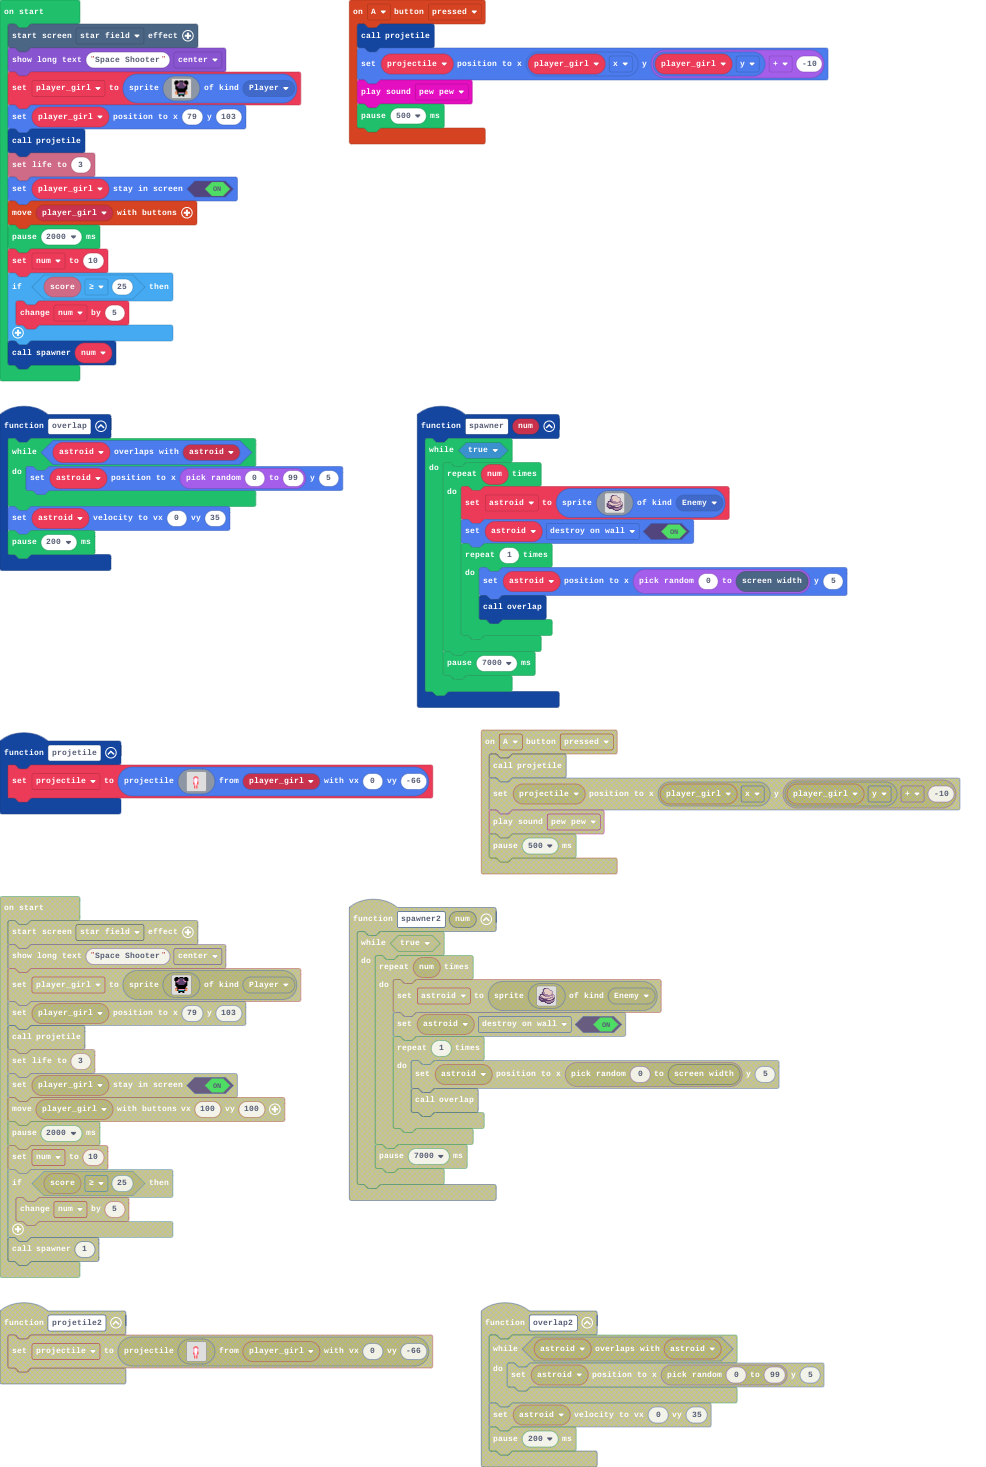
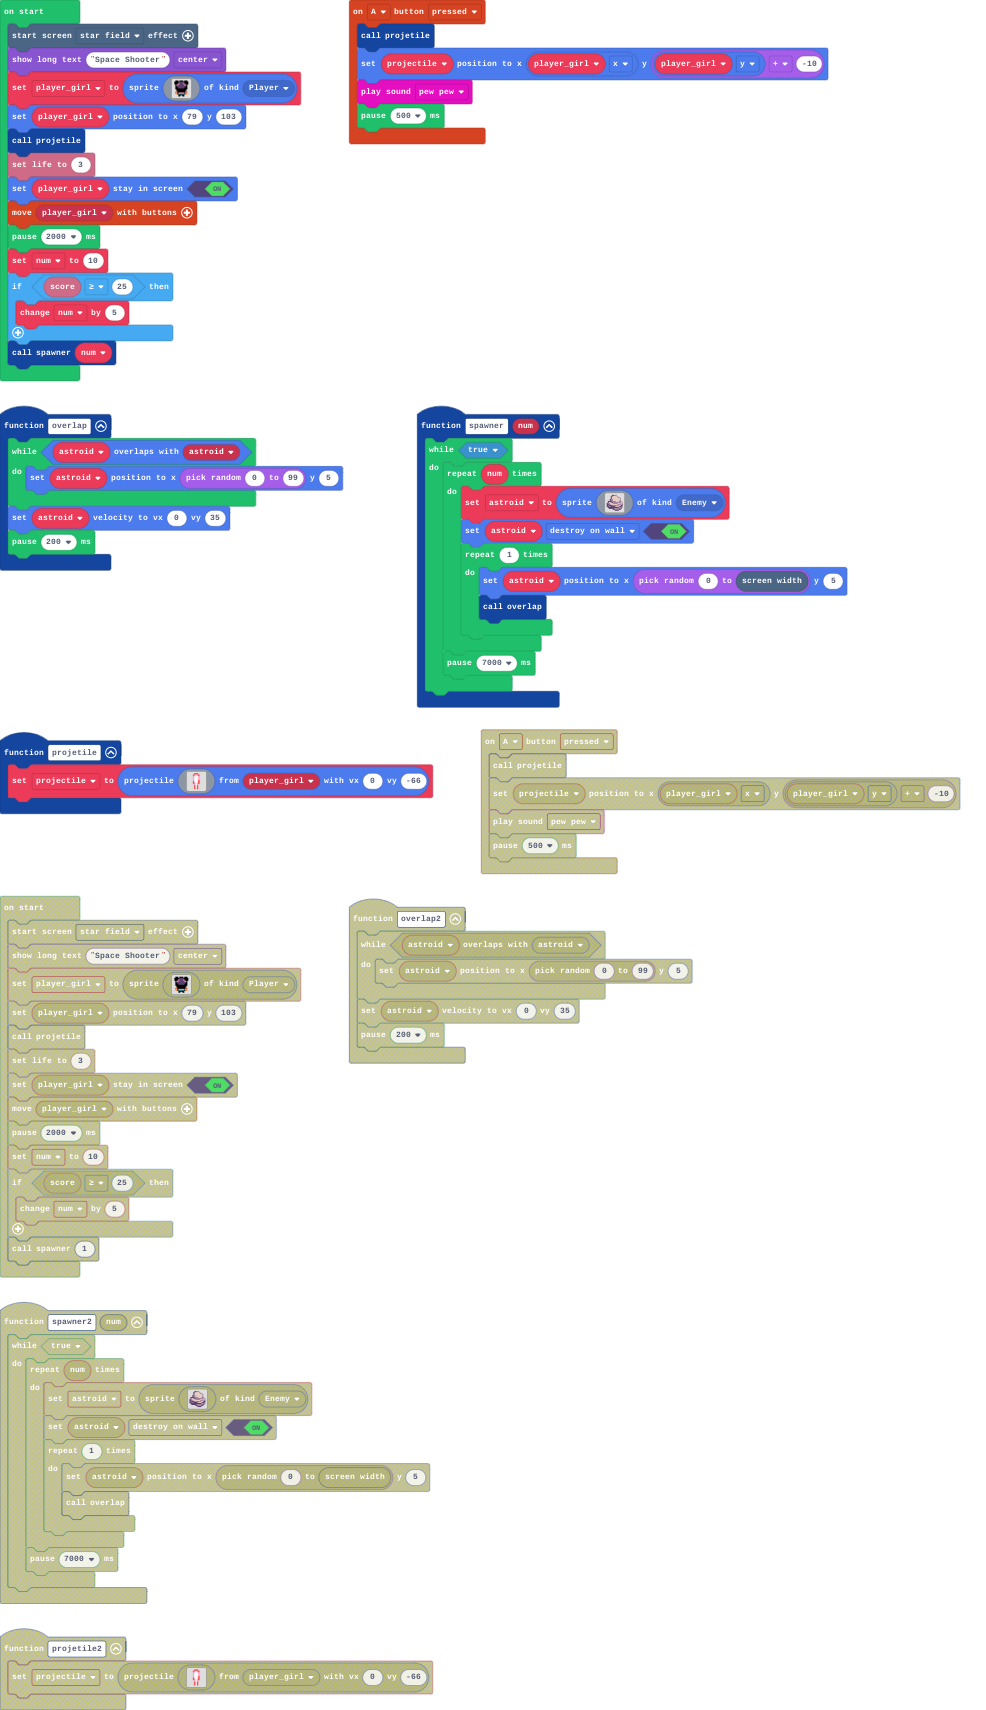
Update main.blocks, images.g.jres, images.g.ts, main.py

diff --git a/images.g.ts b/images.g.ts
@@ -3,25 +3,6 @@ namespace myImages {
 
     helpers._registerFactory("image", function(name: string) {
         switch(helpers.stringTrim(name)) {
-            case "D9-`T_l?fAeyK*B}I;lD":
-            case "bullet":return img`
-. . . . . . . . . . . . . . . . 
-. . . . . . . . . . . . . . . . 
-. . . . . . . . . . . . . . . . 
-. . . . . . 2 2 2 . . . . . . . 
-. . . . . 2 3 1 3 2 . . . . . . 
-. . . . . 3 1 1 1 3 . . . . . . 
-. . . . . 3 1 1 1 3 . . . . . . 
-. . . . . 3 1 1 1 3 . . . . . . 
-. . . . . 3 1 1 1 2 . . . . . . 
-. . . . . 2 1 1 1 2 . . . . . . 
-. . . . . 2 3 1 3 2 . . . . . . 
-. . . . . . 3 1 3 . . . . . . . 
-. . . . . . 2 1 2 . . . . . . . 
-. . . . . . 2 1 2 . . . . . . . 
-. . . . . . 2 1 2 . . . . . . . 
-. . . . . . . . . . . . . . . . 
-`;
             case "Wdb{9F4_6*C/:Um,b@U#":
             case "girl":return img`
 . f f f . f f f f . f f f . 
@@ -59,6 +40,21 @@ c c b b c c c c b d d d b c c b
 . . c c c c c b b b b b b b c . 
 . . . . . . c c b b b b c c . . 
 . . . . . . . . c c c c . . . . 
+`;
+            case "D9-`T_l?fAeyK*B}I;lD":
+            case "bullet":return img`
+. 2 2 2 . 
+2 3 1 3 2 
+3 1 1 1 3 
+3 1 1 1 3 
+3 1 1 1 3 
+3 1 1 1 2 
+2 1 1 1 2 
+2 3 1 3 2 
+. 3 1 3 . 
+. 2 1 2 . 
+. 2 1 2 . 
+. 2 1 2 . 
 `;
         }
         return null;

diff --git a/main.py b/main.py
@@ -14,9 +14,7 @@ sprites.on_overlap(SpriteKind.enemy, SpriteKind.projectile, on_on_overlap)
 
 def projetile():
     global projectile
-    projectile = sprites.create_projectile_from_sprite(assets.image("""
-        bullet
-    """), player_girl, 0, -66)
+    projectile = sprites.create_projectile_from_sprite(assets.image("""bullet"""), player_girl, 0, -66)
 
 def on_on_overlap2(sprite, otherSprite):
     sprite.destroy(effects.spray, 100)
